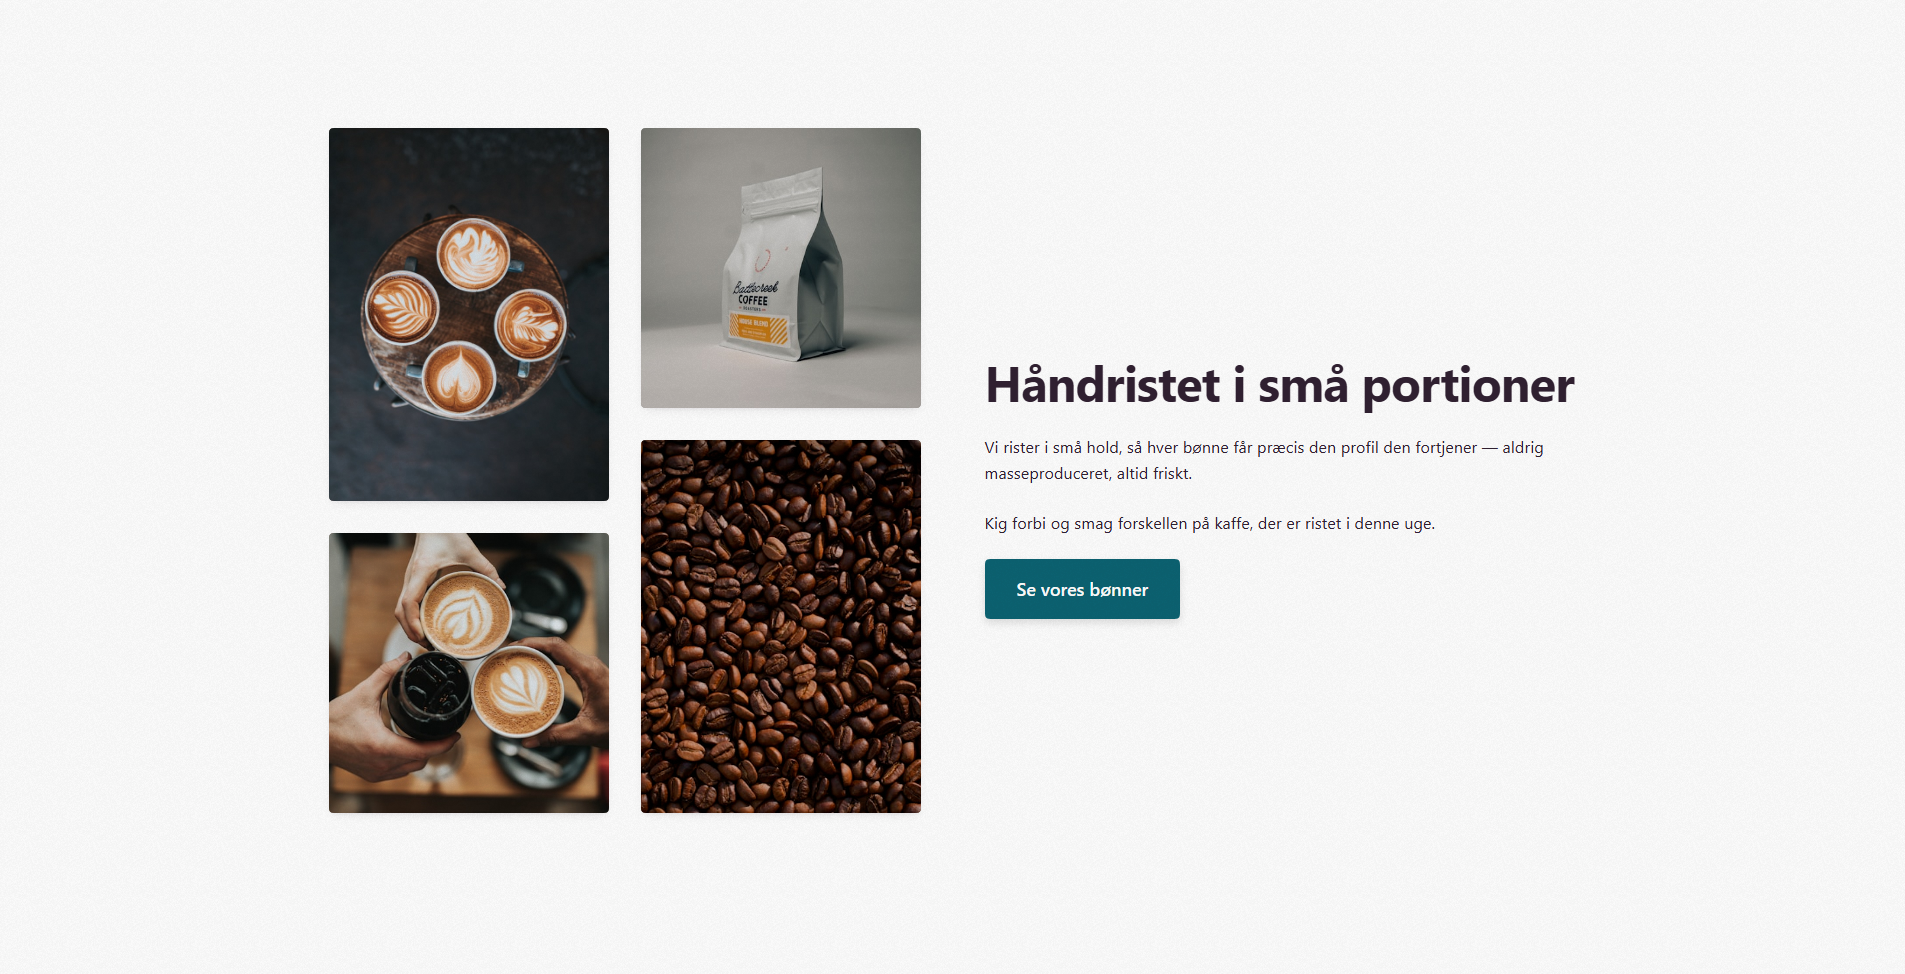
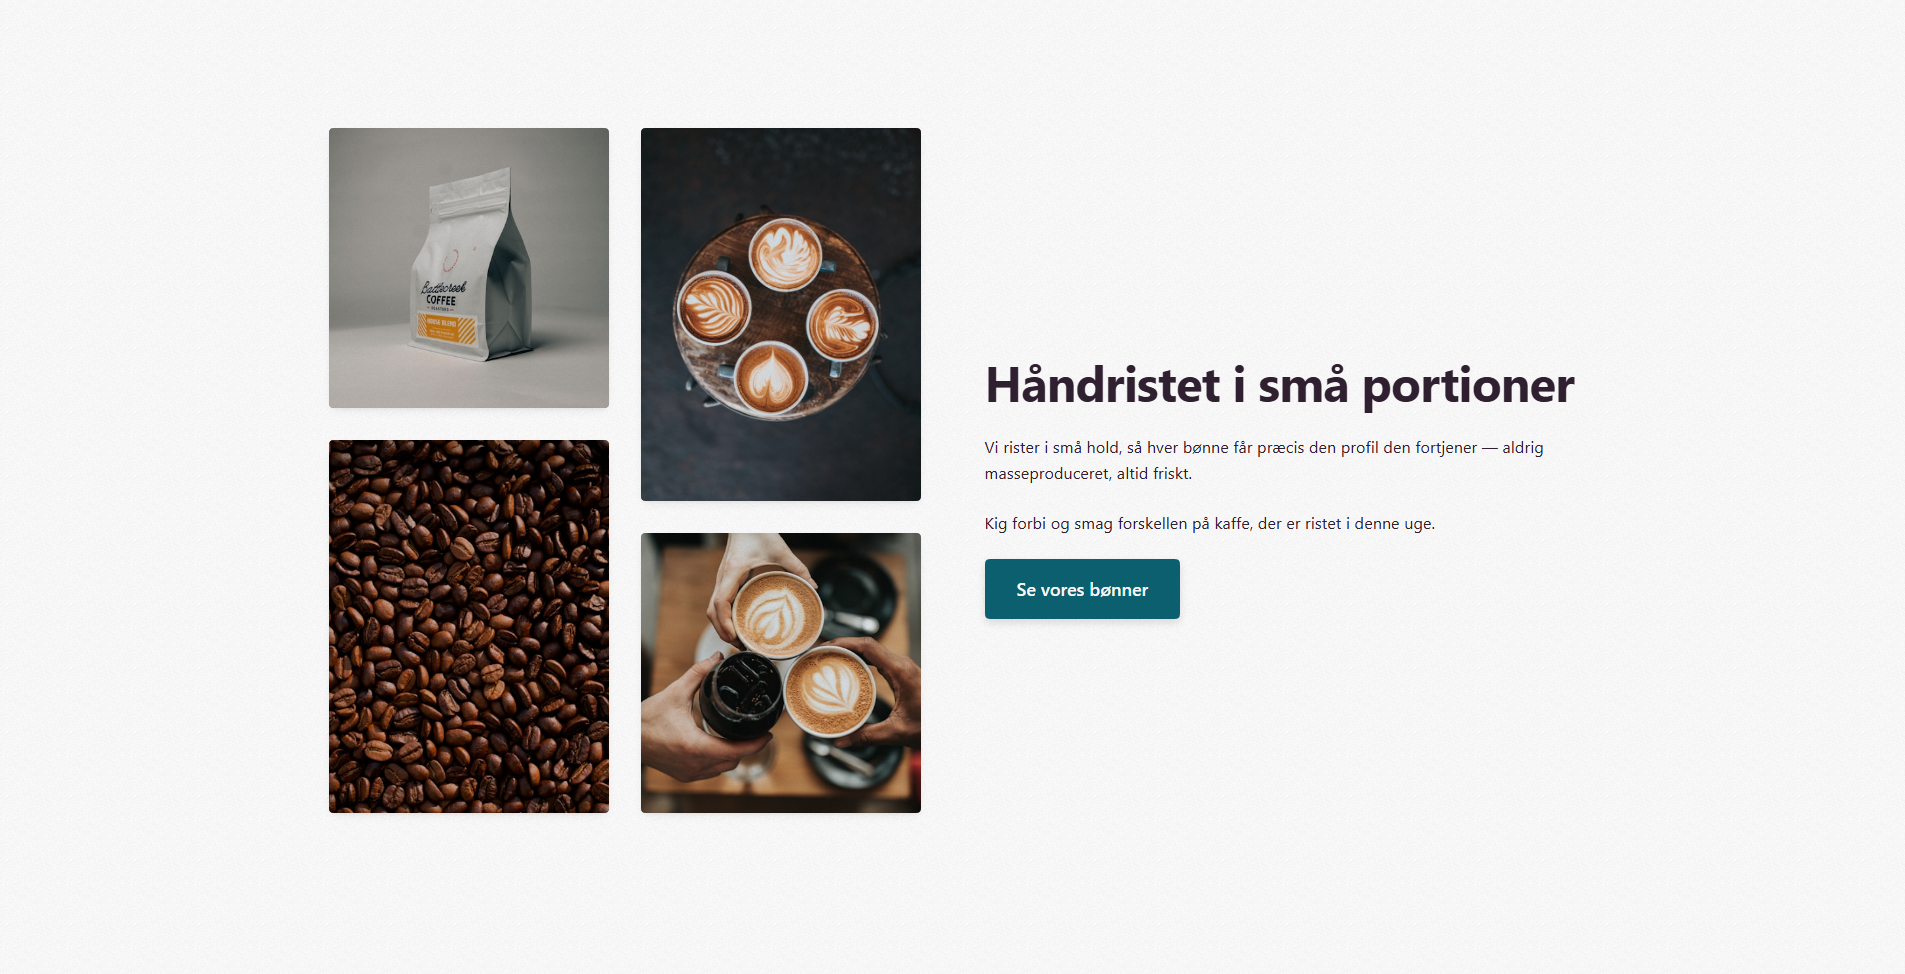
fixes

Changed region(s): [[0.1549, 0.1232, 0.4955, 0.8316]]

diff --git a/src/components/text-with-images/parts/TextWithImagesDuoLayout.tsx b/src/components/text-with-images/parts/TextWithImagesDuoLayout.tsx
@@ -66,33 +66,43 @@ export function TextWithImagesDuoLayout({
       )}
     </EviStack>
   );
+  const tallImg = (
+    <EviImage
+      field={p.image_1}
+      aspectRatio="3:4"
+      variant="plain"
+      imageClassName="object-cover"
+      sizes="(min-width: 768px) 23vw, 46vw"
+      className="shadow-evi"
+      priority={isHero}
+    />
+  );
+  const squareImg = (
+    <EviImage
+      field={p.image_2}
+      aspectRatio="square"
+      variant="plain"
+      imageClassName="object-cover"
+      sizes="(min-width: 768px) 23vw, 46vw"
+      className="shadow-evi"
+    />
+  );
+  // Det HØJE (3:4, Billede 1) står på den YDRE side, væk fra teksten: til venstre
+  // når billed-kolonnen er venstre, ellers til højre — ellers bliver parret ujævnt.
+  const [firstImg, secondImg] = imageLeftOnDesktop
+    ? [tallImg, squareImg]
+    : [squareImg, tallImg];
   // Rå grid (undtagelse, jf. feedback_no_raw_layout_divs): ville normalt være
-  // EviAutoGrid size="duo", men den kan hverken dele bundlinje mellem to
-  // forskellig-høje billeder (items-end) ELLER skifte kolonne ved container-bredde
-  // (@[300px]) — begge kræves her. 2 kolonner ned til 300px, 1 derunder; SAMME
-  // bundlinje: venstre kvadrat (Billede 2) lavere, højre 3:4 (Billede 1) højere.
-  // Gap følger systemets md-breakpoint (gap-4 → md:gap-6). Kun det høje er priority.
+  // EviAutoGrid size="duo", men den kan hverken dele bundlinje mellem to forskellig-
+  // høje billeder (items-end) ELLER skifte kolonne ved container-bredde (@[300px]) —
+  // begge kræves her. 2 kolonner ned til 300px, 1 derunder; SAMME bundlinje. Gap
+  // følger systemets md-breakpoint (gap-4 → md:gap-6). Kun det høje er priority.
   const imageEl = (
     <div data-slot="duo-images" className="@container/imgs">
       {/* eslint-disable-next-line evi/no-raw-layout-classes -- se kommentar ovenfor: EviAutoGrid kan ikke items-end + container-query kolonner */}
       <div className="grid grid-cols-1 gap-4 md:gap-6 @[300px]/imgs:grid-cols-2 @[300px]/imgs:items-end">
-        <EviImage
-          field={p.image_2}
-          aspectRatio="square"
-          variant="plain"
-          imageClassName="object-cover"
-          sizes="(min-width: 768px) 23vw, 46vw"
-          className="shadow-evi"
-        />
-        <EviImage
-          field={p.image_1}
-          aspectRatio="3:4"
-          variant="plain"
-          imageClassName="object-cover"
-          sizes="(min-width: 768px) 23vw, 46vw"
-          className="shadow-evi"
-          priority={isHero}
-        />
+        {firstImg}
+        {secondImg}
       </div>
     </div>
   );

diff --git a/src/components/text-with-images/parts/TextWithImagesCollageLayout.tsx b/src/components/text-with-images/parts/TextWithImagesCollageLayout.tsx
@@ -78,8 +78,16 @@ export function TextWithImagesCollageLayout({
   );
   // Masonry cap'er til 2 spalter; `cluster`-basis så en smal split-pane får 2
   // spalter (19rem-standarden ville falde til 1). Kun 1. billede er priority (LCP).
+  // `direction:rtl` når klyngen er til venstre → spejler spalte-rækkefølgen, så
+  // alternerende (zig-zag) collage-sektioner reflekterer hinanden frem for at
+  // gentage samme klynge. Vender KUN multicol-kolonnerne (billeder = intet
+  // tekst-flow); rent visuelt.
   const imageEl = (
-    <EviMasonry maxColumns={2} basis="cluster">
+    <EviMasonry
+      maxColumns={2}
+      basis="cluster"
+      className={imageLeftOnDesktop ? "[direction:rtl]" : undefined}
+    >
       {filledImages.map((it, i) => (
         <EviImage
           key={it.field.url}
